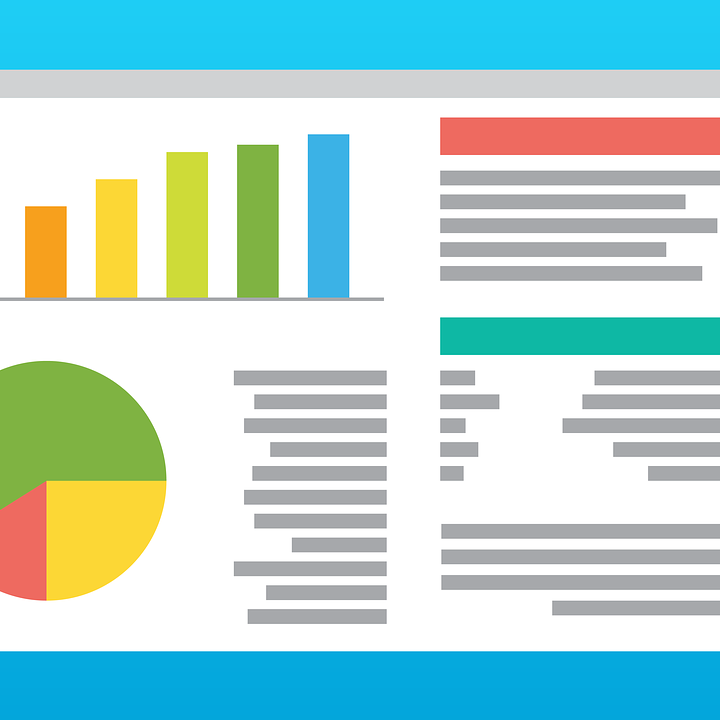
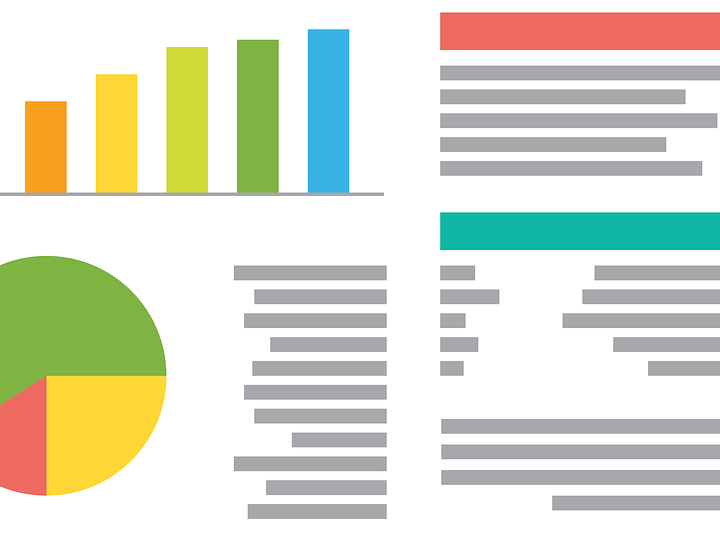
fluid container

diff --git a/index2.html b/index2.html
@@ -32,7 +32,7 @@
     <div class="collapse navbar-collapse" id="consultaxNavbarToggler">
       <ul class="navbar-nav ml-auto mt-2 mt-lg-0">
         <li class="nav-item active">
-          <a class="nav-link" href="#">Home <span class="sr-only">(current)</span></a>
+          <a class="nav-link active" href="index.html">Home <span class="sr-only">(current)</span></a>
         </li>
         <li class="nav-item">
           <a class="nav-link" href="#">Link</a>
@@ -69,7 +69,7 @@
   </div>
 </div>
 
-<div class="container-fluid my-3">
+<div class="container-fluid">
   <div class="row backgrounds">
       <a class="col-12 text-center" href="tel:1-630-901-1410"><h1>CALL US: 630-901-1410</h1></a>
       <a class="col-12 text-center" href="mailto:info@consultaxcorp.com"><h1>Email: info@counsultax.com</h1></a>
@@ -146,6 +146,25 @@
 </div>
   </div> <!-- Row -->
 </div> <!-- Services Announcement -->
+
+
+
+<div class="container-fluid py-5">
+  <div class="row cta">
+    <div class="col-12">
+      <h1 class="title title-cta text-center">
+        Get Professional Service at a Personal Level
+        <span>Accounting Done!</span>
+      </h1>
+    <div class="col-12 text-center">
+      <a href="contact.html" class="button button-dark mb-1">Contact Us</a>
+    </div>
+
+  </div>
+</div>
+</div>
+
+
 
 <!--Footer-->
 <footer>

diff --git a/css/style2.css b/css/style2.css
@@ -2,6 +2,7 @@
   --company-color-dark: rgb(40, 110, 240);
   --company-color-light: rgb(70, 190, 240);
   --company-color-highlight: #92140C;
+  --gradient: linear-gradient(210deg, #286EF0, #46BEF0, #286EF0);
 }
 
 @import url('https://fonts.googleapis.com/css?family=Open+Sans:300,300i,700,700i');
@@ -13,9 +14,10 @@ section::after {
   display: block;
   clear: both;
 } */
-.container-fluid {
+/* .container-fluid {
   width: 95%;
-}
+  margin: 0 auto;
+} */
 
 body {
   font-family: 'Open Sans', sans-serif; font-size: 16px; font-weight: 400; color: #555; margin: 0; padding: 0;
@@ -168,6 +170,7 @@ nav .nav-item:hover::after {
   color: #eee;
   text-align: center;
   width: 100%;
+  height: 100vh;
   padding-top: 10em;
 }
 
@@ -222,6 +225,31 @@ nav .nav-item:hover::after {
 }
 
 
+/* ============ cta ============ */
+
+/* .cta {
+  background-image: linear-gradient(rgb(40, 110, 240), rgb(70, 190, 240));
+  padding: 5em 0;
+  text-align: center;
+  color: white;
+} */
+
+.cta {
+  text-align: center;
+  padding: 10em, 0;
+  display: flex;
+  background: white;
+  background-size: 300%;
+  background-image: var(--gradient);
+  animation: bg-animation 5s infinite;
+}
+
+
+@keyframes bg-animation {
+  0% {background-position: left}
+  50% {background-position: right}
+  100% {background-position: left}
+}
 
 
 .title {
